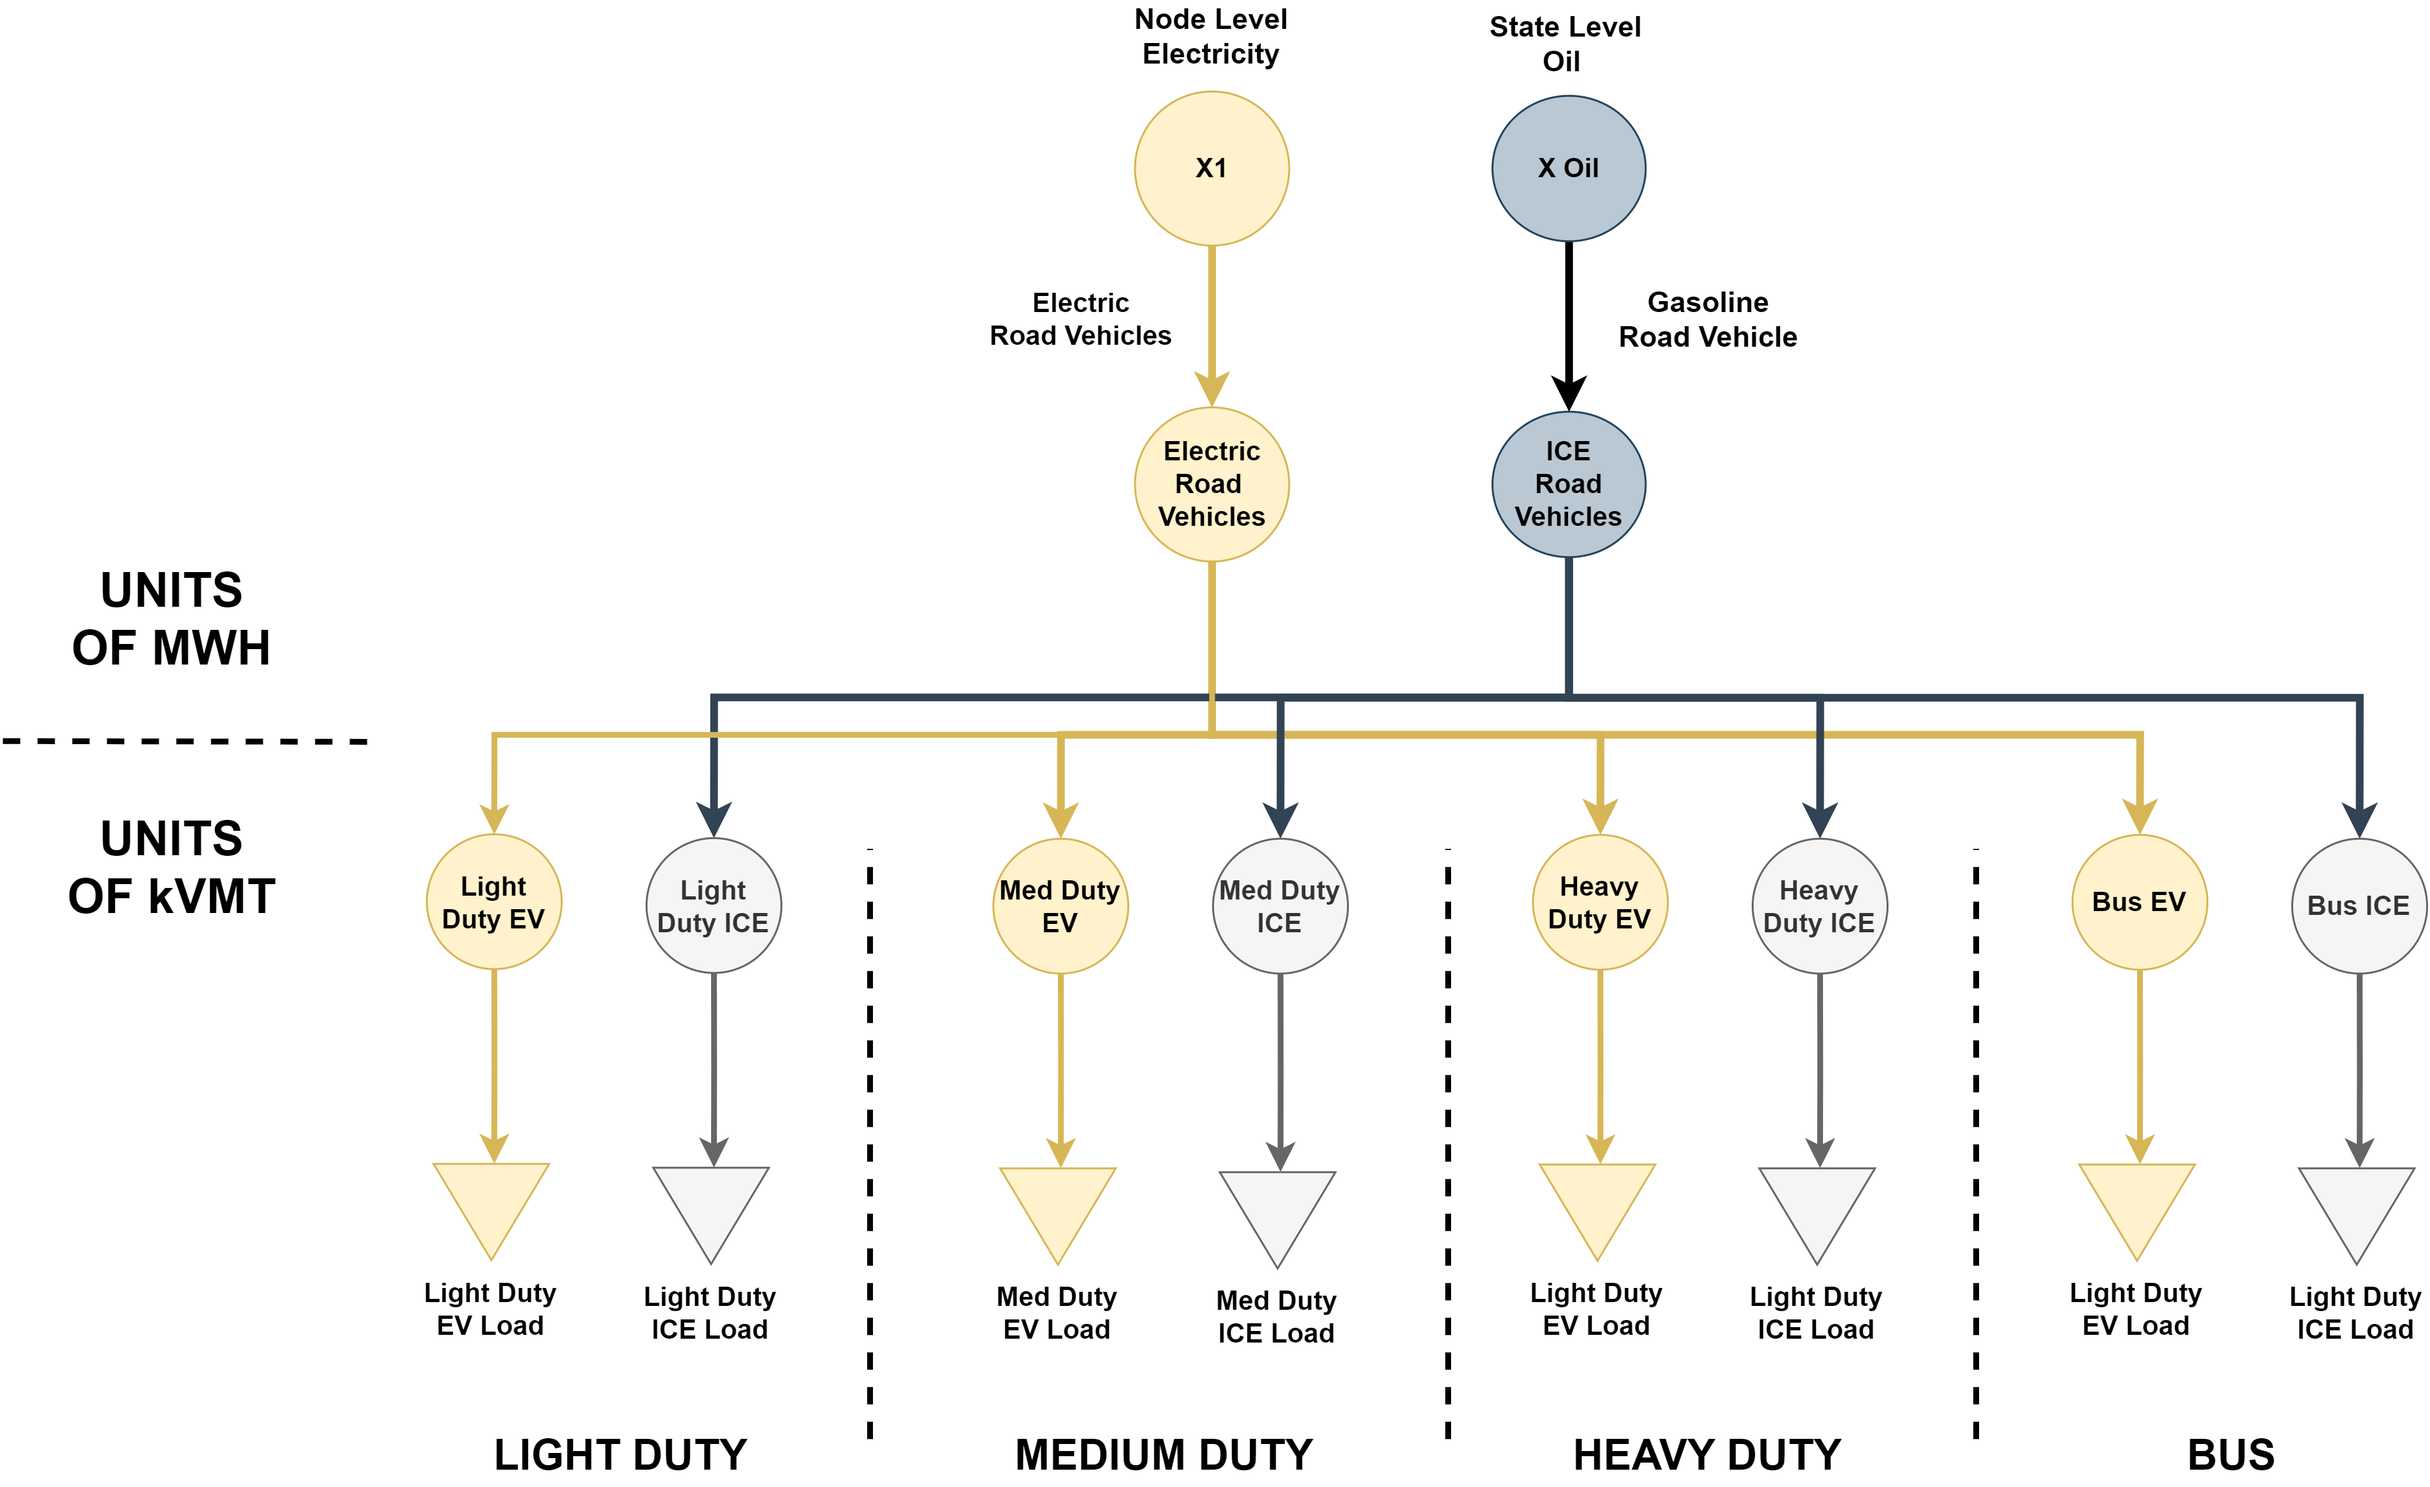
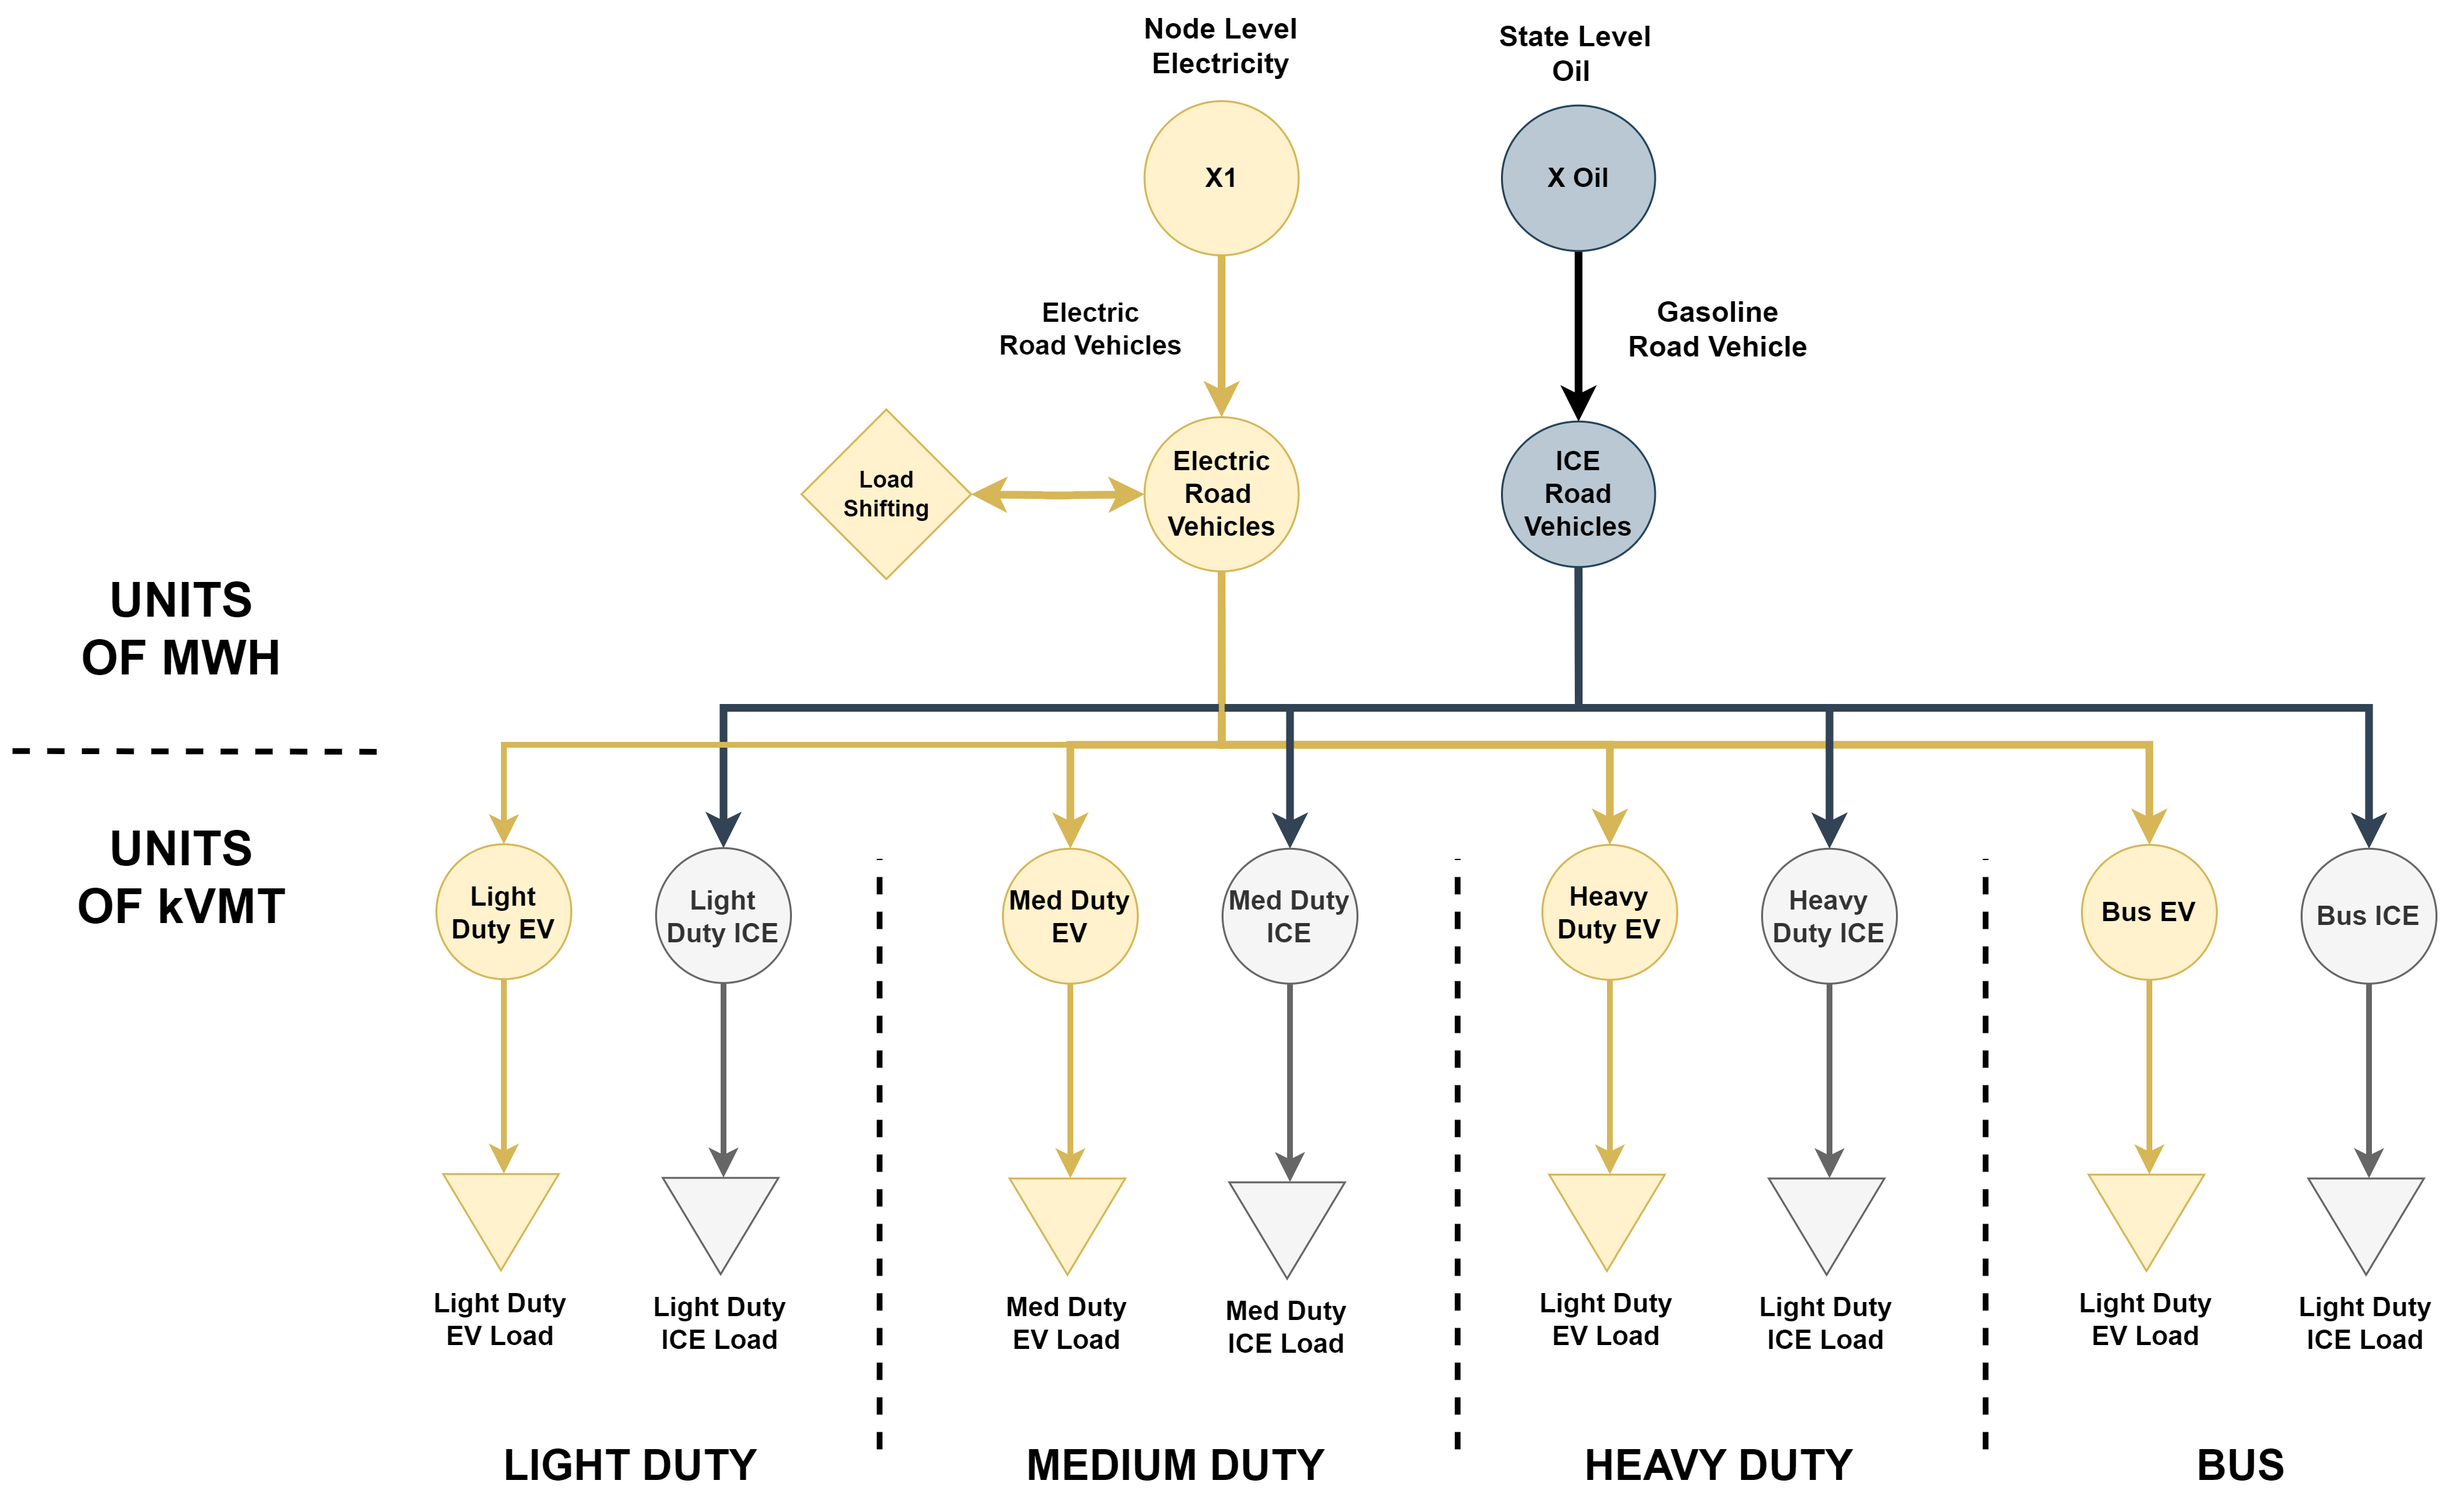
docs update

diff --git a/docs/source/data-sectors.md b/docs/source/data-sectors.md
@@ -1,0 +1,91 @@
+(data-sector-coupling)=
+# Sector Coupling
+
+Full energy system models can be run through PyPSA-USA. This page gives an overview of the functionality to run sector-coupled energy models.
+
+## Overview
+
+Sector coupled models are built ontop of the power sector representation. This means all assumptions[^1], including spatial and temporal options, implemented to bild the electricity sector are shared in sector coupled studies.
+
+When running sector coupled studies, four end use sectors are added to the system. These include residential, commercial, industrial, and transportation. Each of these sectors will always have electrical loads. Then, based on user configuration options, heating, cooling, or fossil fuel loads may be added to the system. Moreover, the natural gas network is added to track imports/exports, storage levels, methane leaks, and endogenously solve for natural gas cost.
+
+```{important}
+Functionality to turn off heating, cooling, and lpg loads are still under development. Currently, models always run with all loads.
+```
+
+A high level overview of how all sectors interact is shown in Figure below.
+
+:::{figure-md} sector-res
+<img src="./_static/sectors/pypsa-sectors.png" width="600px">
+
+Simple representation of the sectoral interactions in PyPSA-USA
+:::
+
+[^1]: With the exception of CO2 emission targets.
+
+## Emission Targets
+
+Sector coupled studies implement emission limits different from power sector studies. The difference comes from allowing different sectors to decarbonize at different rates. Often hard-to-decarbonize sectors, like particular industrial applications, will have slower decarbonization targets compared to sectors with commercialized solutions (like electric vehicles). See the [configuration page](./config-sectors.md#carbon-limits) for details on how to implement these emission targets.
+
+## Demand Response
+
+Demand response is implemented the same for all end-use sectors, so it is covered here. Demand response is energy carrier agnostic, and can be applied to any end use demand. For example, both electrical loads and space-heating can participate in demand response.
+
+### PyPSA Implementation
+
+A price based demand respose program is impelemnted in PyPSA-USA. Demand can be shifted, either forward or backwards, and stored for any period of time. For each hour energy is stored, a cost is incurred to the system at a per-unit level (ie. $/MhW). PyPSA has out-of-the-box functionality to implement price based demand response programs. See the [`marginal_cost_storage`](https://pypsa.readthedocs.io/en/latest/user-guide/components.html#) parameter exposed for `Store` and `StorageUnit` components. To use this functionality to provide both forwards and backwards demand response, the following schematic is implemented.
+
+:::{figure-md} demand-response
+<img src="./_static/sectors/pypsa-dr.png" width="500px">
+
+Demand response implementation in PyPSA-USA sectors
+:::
+
+Forward and backwards demand shifting is implemented seperatly for correct cost accounting. The need for this is shown in the following image. In backwards demand response, demand can be shifted to earlier points in time, allowing the model to store energy. However, for forward demand response, energy must be made available before it is generated by the system. This is done with a `Store` acting as a source (ie. negative storage levels) and a negative cost to store energy - this results in an increase in the objective cost to store energy.
+
+:::{figure-md} dr-state-of-charge
+<img src="./_static/sectors/pypsa-dr-soc.png" width="700px">
+
+Schematic showing forwards and backwards demand response
+:::
+
+```{important}
+Demand response in the transportation sector is applied at an aggregated vehicle level. This means all road vehicle types participate follow the same demand response charasteristics (ie. demand response can not be split out so only light-duty vehicles participate). This is due to endogenous investments including both electric and gasoline vehicles.
+```
+
+### Capacity Constraints
+
+Capacity constraints limit how much energy can be delievered through demand response at any point in time. To implement this, a custom constraint is implemented as shown below.
+
+\begin{align*}
+    &\ \text{let:} \\
+    &\ \hspace{1cm} t\in T \hspace{1cm} \text{Set of snapshots} \\
+    &\ \hspace{1cm} n\in N \hspace{1cm} \text{Set of buses} \\
+    &\ \hspace{1cm} d_{n,t} = \text{Load at time } t \text{ and bus } n \\
+    &\ \hspace{1cm} s_{n,t} = \text{Allowable shiftable load per unit of } d_{n,t} \\
+    &\ \hspace{1cm} dr_{n,t} = \text{Discharge of demand response at time } t \text{ and bus } n \\
+    &\ s.t. \\
+    &\ \hspace{1cm} d_{n,t} \times s_{n,t} \leq dr_{n,t} \hspace{0.5cm} \forall_{\text{n,t}}\\
+\end{align*}
+
+This is not applied directly to the `Link` object via the `p_nom` paprameter to be consistent with the transport sector. Within the transport sector, demand response is applied to the aggregation bus due to endogenous investment options. Therefore, knowing how much electrical load to be shifted at each timestep is not trivial. For the transport sector, the following constraint is added. See the [transportation section](./data-transportation.md) schematics for details on where demand reponse is applied.
+
+\begin{align*}
+    &\ \text{let:} \\
+    &\ \hspace{1cm} t\in T \hspace{1cm} \text{Set of snapshots} \\
+    &\ \hspace{1cm} n\in N \hspace{1cm} \text{Set of buses} \\
+    &\ \hspace{1cm} v\in V \hspace{1cm} \text{Set of electric vehicle links} \\
+    &\ \hspace{1cm} p_{n,t,v} = \text{Flow at time } t \text{ and bus } n \text{ and link } v \\
+    &\ \hspace{1cm} s_{n,t} = \text{Allowable shiftable load per unit of } d_{n,t} \\
+    &\ \hspace{1cm} dr_{n,t} = \text{Discharge of demand response at time } t \text{ and bus } n \\
+    &\ s.t. \\
+    &\ \hspace{1cm}  \sum_{v}(p_{n,t,v}) \times s_{n,t} - dr_{n,t} \geq 0 \hspace{0.5cm} \forall_{\text{n,t}}\\
+\end{align*}
+
+## Further Information
+
+Each sector has a dedicated page giving information on data sources, implementation details, and assumptions. See the corresponding page linked below.
+- [Natural Gas](./data-naturalgas.md)
+- [Servince Sector](./data-services.md)
+- [Industrial Sector](./data-industrial.md)
+- [Transportation Sector](./data-transportation.md)

diff --git a/docs/source/index.md b/docs/source/index.md
@@ -56,6 +56,7 @@ data-generators
 data-renewables
 data-costs
 data-policies
+data-sectors
 data-naturalgas
 data-services
 data-industrial
